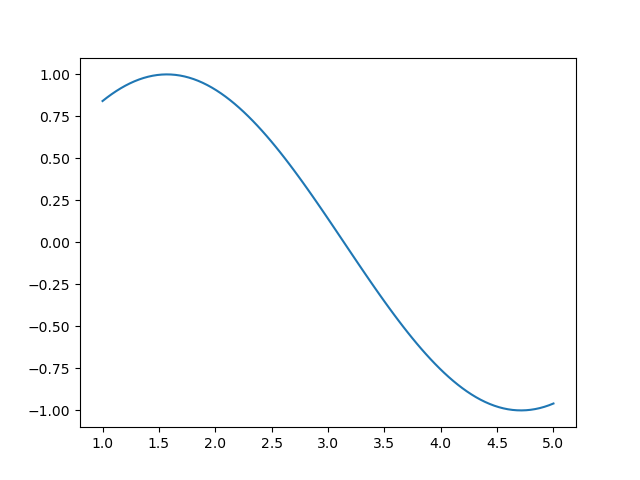
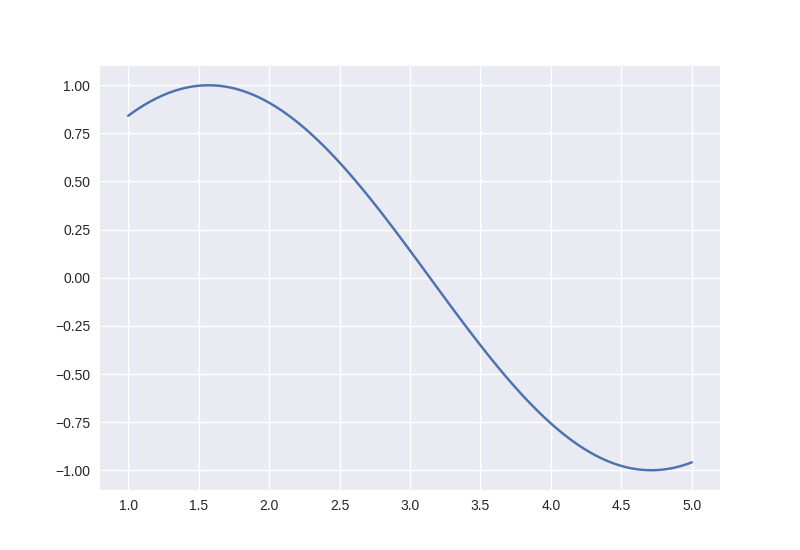
Improved graphs
Now graphs look better and are just save in calculator/static/calculator/graphs

diff --git a/Website/calculator/traph/grapher.py b/Website/calculator/traph/grapher.py
@@ -1,6 +1,6 @@
 import os                     # needed to specify where the pictures should go
 from . import file_numberer   # Used to name the images of plots [graph(number).png]
-from shutil import copy       # to get copied to static/calculator/graphs
+from shutil import move       # to get copied to static/calculator/graphs
 # getting the path (if you found a better way, tell me)
 path = os.getcwd()
 os.chdir(path+'//calculator//traph')
@@ -13,7 +13,7 @@ def graph_it(equation):
     # Sorry for the complexity and mess, happen you found a better way, I'll be grateful if you tell me
 
     with open('plot.py', 'w') as ploter:
-        text = f"import matplotlib.pyplot as plt \nfrom numpy import * \nx = linspace(1, 5, 100) \ny = {equation} \nplt.plot(x, y) \nfile_name = 'graphs/graph{file_number}.png' \nplt.savefig(file_name)"
+        text = f"import matplotlib.pyplot as plt \nfrom numpy import * \nplt.style.use('seaborn') \nx = linspace(1, 5, 100) \ny = {equation} \nplt.plot(x, y) \nfile_name = 'graphs/graph{file_number}.png' \nplt.savefig(file_name)"
         ploter.write(text)
 
     from . import plot                   # Running the plot.py
@@ -25,4 +25,4 @@ def graph_it(equation):
         numberer.write(text)
 
     os.chdir(path+'//calculator')                   # Changing the placement
-    copy(f'traph/graphs/graph{file_number-1}.png', 'static/calculator/graphs')
+    move(f'traph/graphs/graph{file_number-1}.png', 'static/calculator/graphs')

diff --git a/Website/calculator/traph/plot.py b/Website/calculator/traph/plot.py
@@ -1,7 +1,8 @@
 import matplotlib.pyplot as plt 
 from numpy import * 
+plt.style.use('seaborn') 
 x = linspace(1, 5, 100) 
-y = sqrt(x) 
+y = cos(x) 
 plt.plot(x, y) 
-file_name = 'graphs/graph13.png' 
+file_name = 'graphs/graph24.png' 
 plt.savefig(file_name)

diff --git a/Website/calculator/traph/file_numberer.py b/Website/calculator/traph/file_numberer.py
@@ -1,3 +1,3 @@
 def get_number():
-    number = 14
+    number = 25
     return number
